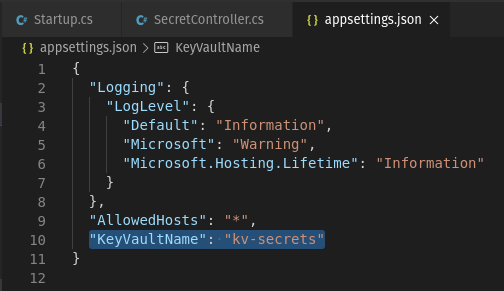
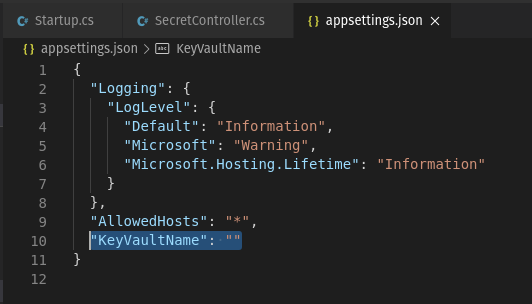
update pic

diff --git a/src/chapters/secrets-and-backing/walkthrough.rst b/src/chapters/secrets-and-backing/walkthrough.rst
@@ -25,7 +25,7 @@ There are three files we are interested in.
 
 .. image:: /_static/images/secrets-and-backing/secretcontroller-cs.png
 
-``appsettings.json`` is the settings file that will contain the information about the Key vault we are connecting to. You will notice a key value pair with the key ``Key vaultName`` and the value ``kv-secrets``. For today's example we will all provision a Key vault with the same name, however in practice usually your Key vault name will be unique.
+``appsettings.json`` is the settings file that will contain the information about the Key vault we are connecting to. You will notice a key value pair with the key ``Key vaultName`` and the value is empty. Everyone will need to have a globally unique Key vault name. So we can't fill that for you. After creating our Key vault we will each need to enter in our own unique Key vault names.
 
 .. image:: /_static/images/secrets-and-backing/appsettings-json.png
 
@@ -170,7 +170,15 @@ Looking at the main page we will want to add a new Key vault. Click the add butt
 
 This will take you to the Key vault creation wizard.
 
-After completing the form click create
+.. note::
+
+   Key vault names must be globally unique. This means you may have to try a few different Key vault names to get it to work. However, your source code must match the Key vault name you choose. So take note of your Key vault name as we will be referencing it later.
+
+Fill out the form with your resource group name ``yourname-rg-secrets`` and your Key vault name we recommend using a pattern like ``yourname-kv-secrets``, but you may need to make some changes to your Key vault name since all Key vault names are globally unique.
+
+.. image:: /_static/images/secrets-and-backing/keyvault-form.png
+
+After completing the form click create.
 
 .. image:: /_static/images/secrets-and-backing/create-keyvault.png
 
